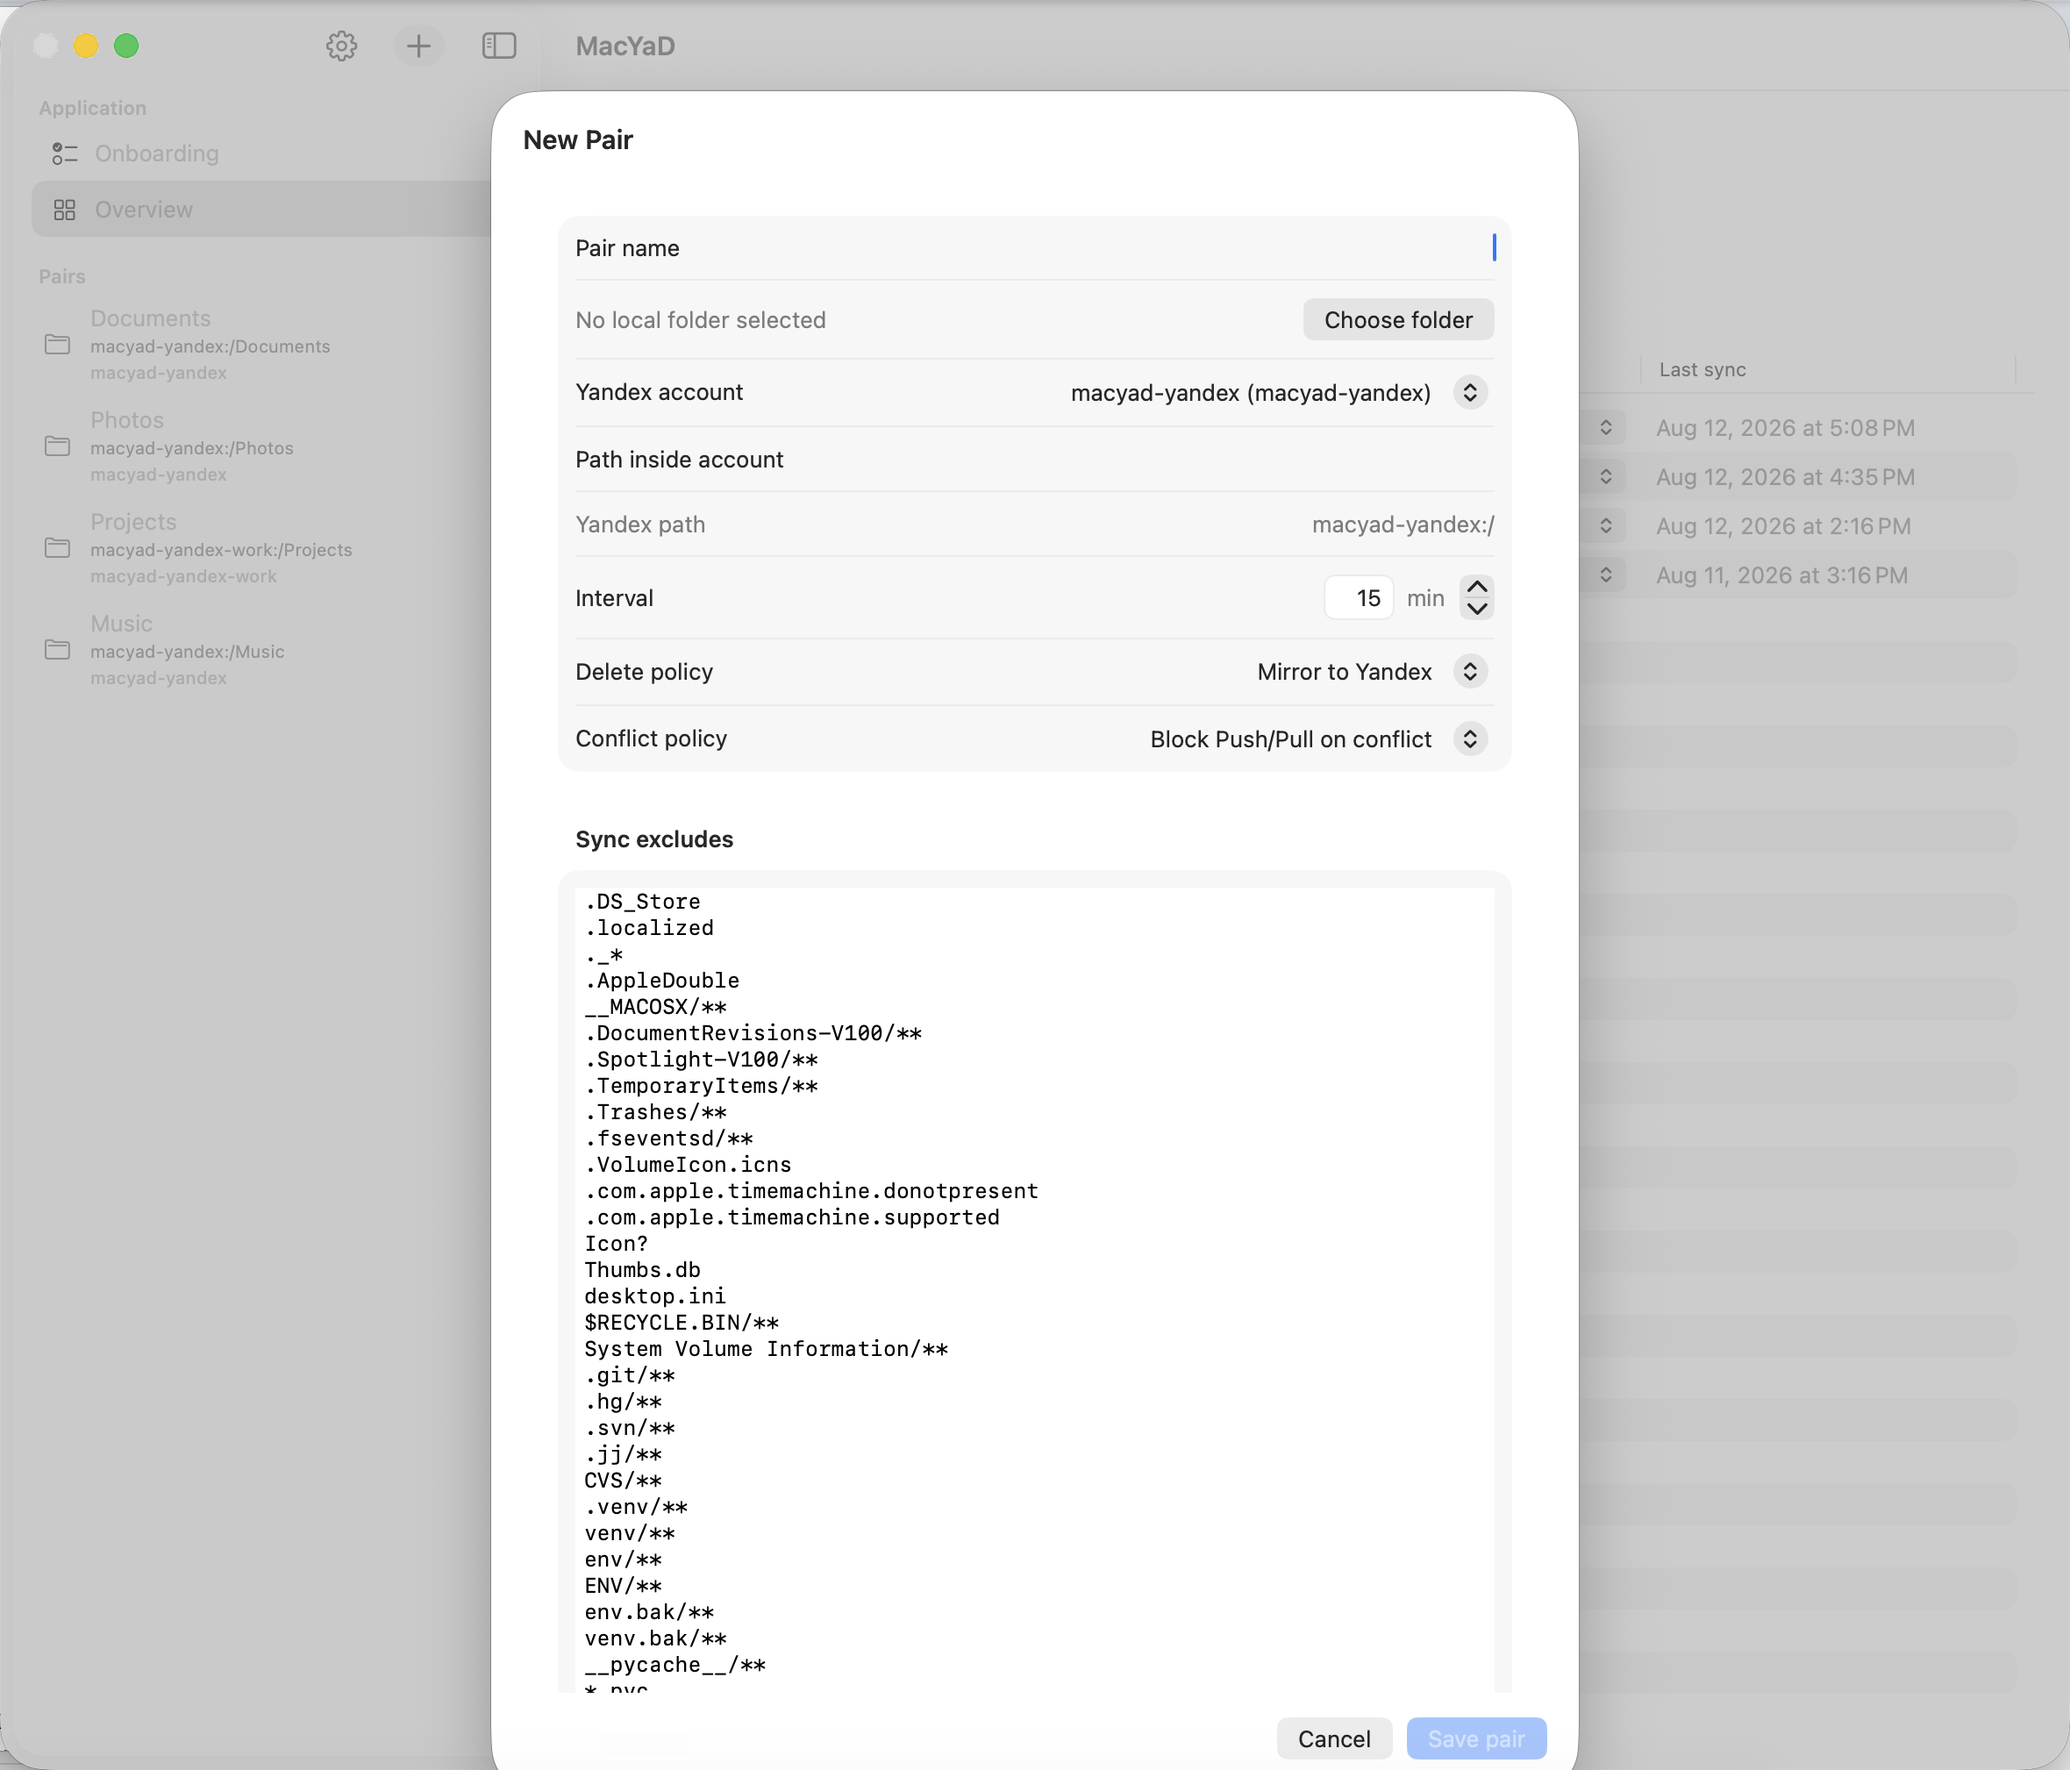
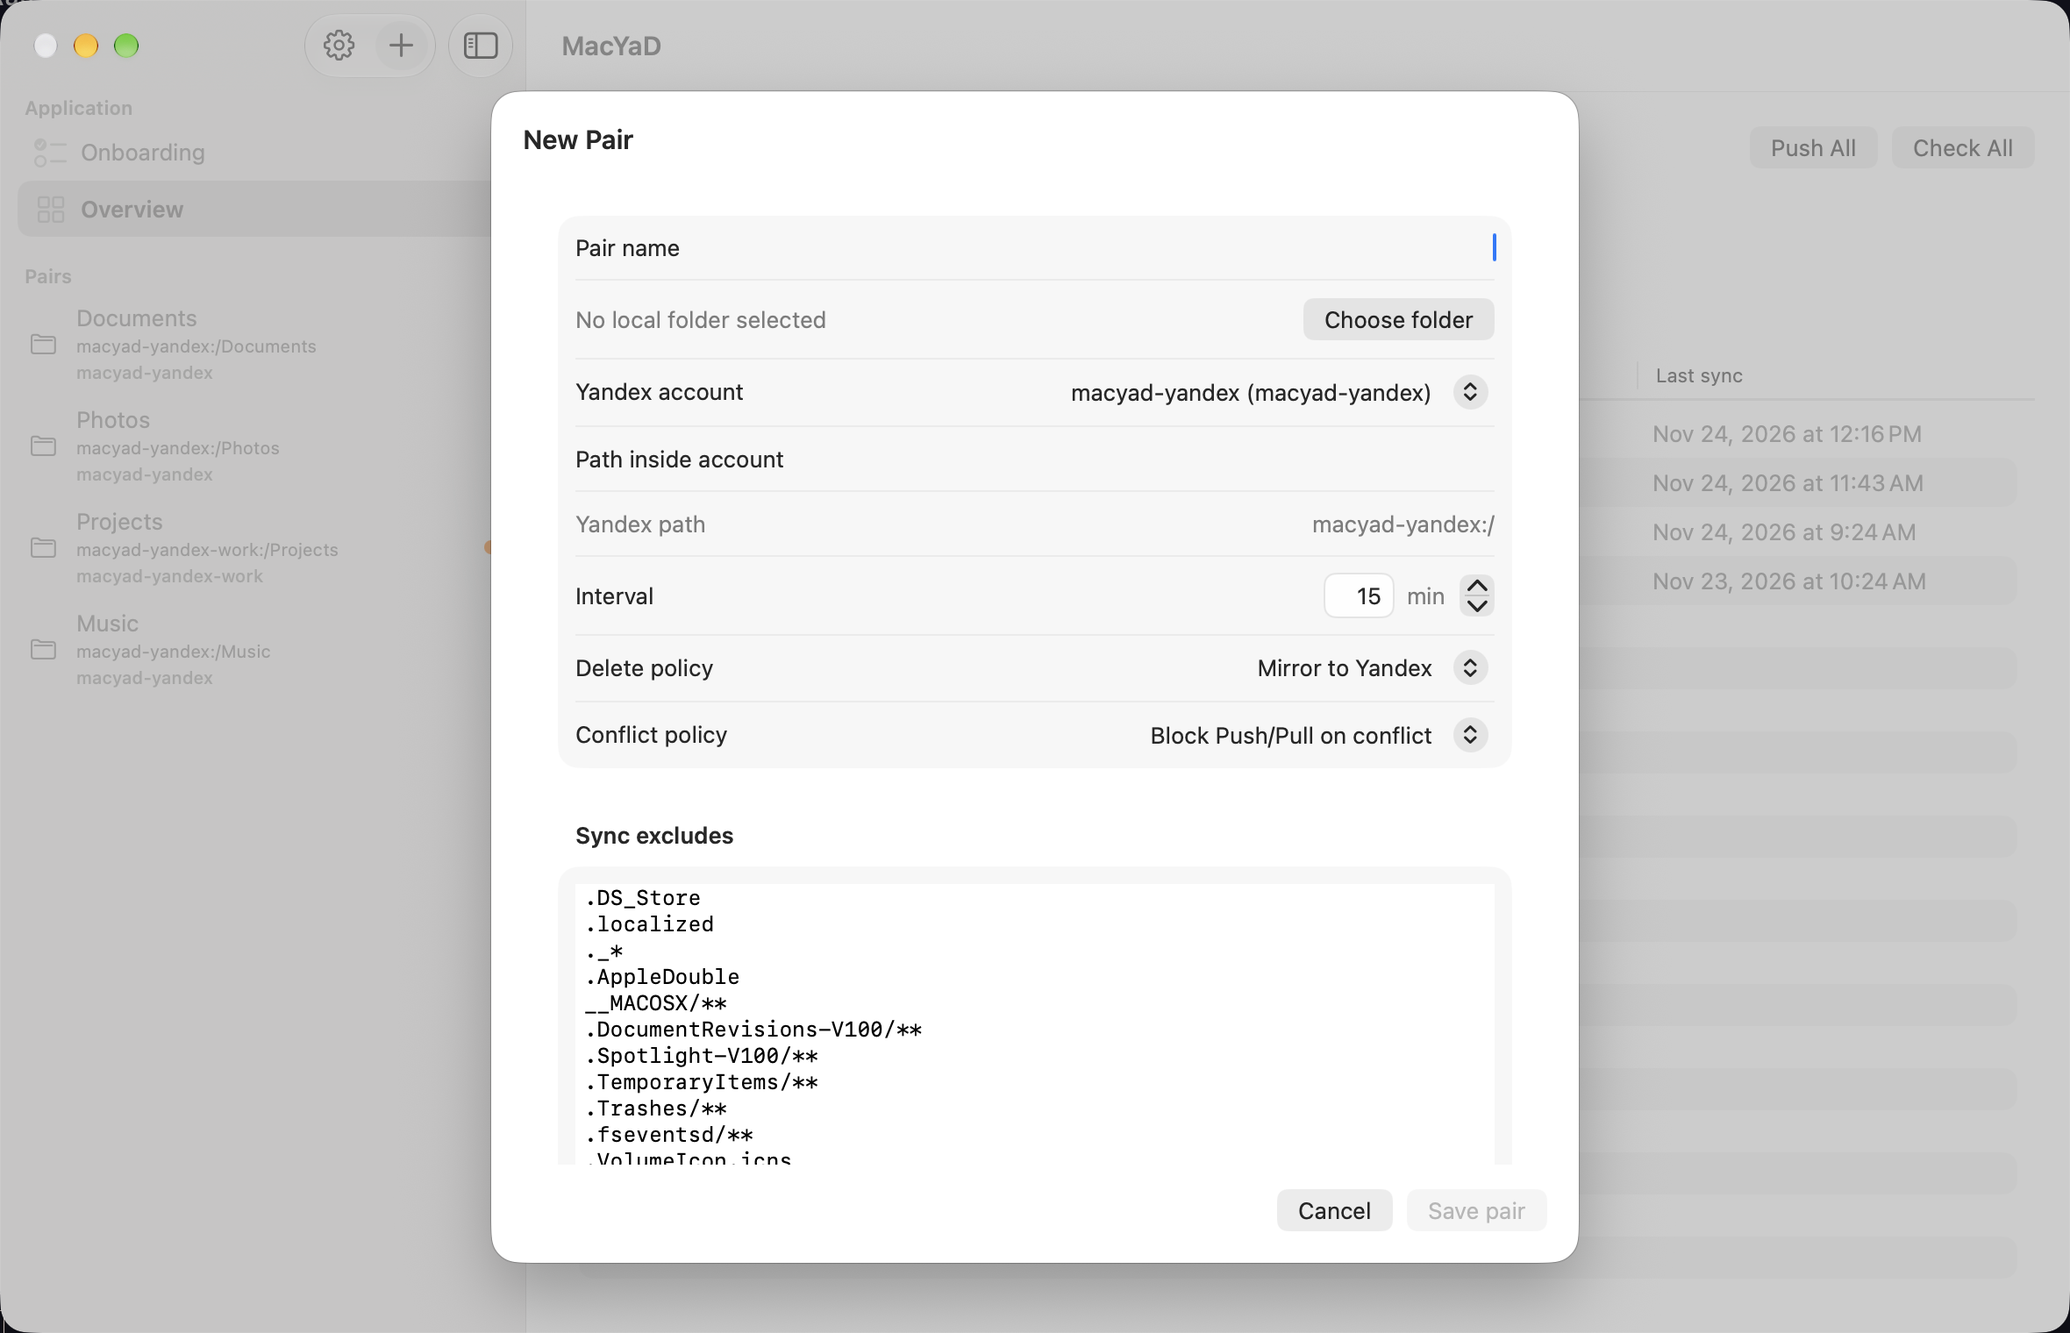
docs: refresh README screenshots and describe the UI fixes
Screenshots retaken with ScreenshotUITests on the seeded configuration:
the Overview now shows Push All / Check All, the pair card the new
"Next sync" rule. Changelog and ViewModels/AGENTS.md describe the per-pair
run indicator and the "Next sync" fix.

Claude-Session: https://claude.ai/code/session_01BfYFpMYGnTAbvLL6529fAy

diff --git a/Macyad/ViewModels/AGENTS.md b/Macyad/ViewModels/AGENTS.md
@@ -14,7 +14,7 @@
 | `SettingsViewModel.swift` | Macyad (app) | Управляет настройками (`AppPreferences`): язык, автозапуск, расписание; управляет аккаунтами Yandex через `AccountService`; через `languageDidChange` уведомляет `AppModel` о смене языка |
 | `CreatePairViewModel.swift` | MacyadCore | Форма создания/редактирования `SyncPair`: хранит черновик полей, вызывает `FolderPicking.pickFolder()`, строит финальный `SyncPair` через `PairService.makePair()` / `updatePair()` |
 | `OnboardingViewModel.swift` | MacyadCore | Обёртка над `OnboardingServicing`: публикует `OnboardingState`, управляет флагом `isRefreshing`, копирует команды в буфер обмена через `PasteboardWriting` |
-| `PairDetailViewModel.swift` | MacyadCore | Лёгкая вьюмодель детальной панели пары: публикует `operationPhase` (`.idle` / `.queued` / `.running`), `latestSeverity`, `lastErrorMessage`; обновляется извне через сеттеры |
+| `PairDetailViewModel.swift` | MacyadCore | Лёгкая вьюмодель детальной панели пары: фаза операции **по каждой паре** (`operationPhase(for:)`, `setOperationPhase(_:for:kind:)` — одна общая фаза показывала чужой запуск и гасла от первого закончившегося), `nextSync(for:preferences:)` по правилу `ScheduledSyncEligibilityPolicy`, `latestSeverity`, `lastErrorMessage`; обновляется извне через сеттеры |
 
 ## For AI Agents
 
@@ -33,7 +33,7 @@
 - Все классы помечены `@MainActor final`; async-операции запускаются через `Task { ... }` внутри синхронных методов.
 - Локализованные строки берутся через `AppCopy(language: language)` или `AppCopy.current` — не используй строковые литералы напрямую.
 - `SettingsViewModel.languageDidChange` — коллбэк, а не Combine-паблишер: `AppModel` регистрирует его при старте в `MacyadApp.configureAppModel()`.
-- `PairDetailViewModel.operationPhase` обновляется снаружи (из `PairSyncCoordinator`/Views) через `setOperationPhase(_:)` и `setOperationInFlight(_:)`.
+- Фаза операции обновляется снаружи (`MainWindowView`) через `setOperationPhase(_:for:kind:)` с id пары.
 
 ## Dependencies
 

diff --git a/CHANGELOG.ru.md b/CHANGELOG.ru.md
@@ -57,6 +57,14 @@ English version: [CHANGELOG.md](CHANGELOG.md)
   запись результата. В нём только идентификаторы пар, подкоманды и номера
   процессов, без имён файлов и путей. Как сохранить его перед перезапуском
   приложения, описано в README, в разделе про неполадки.
+- **Карточка пары показывала чужой запуск как свой.** Индикатор «в очереди» и
+  «выполняется» был один на все пары: Push, поставленный для одной пары, был
+  виден на каждой карточке, а первый закончившийся запуск гасил его, пока
+  другие ещё ждали. Теперь у каждой пары свой индикатор.
+- **«Следующая синхронизация» обещала запуск, которого не будет.** Карточка
+  показывала время, даже если пара на паузе или остановлена ошибкой, которая
+  требует вашего действия. Теперь в этих случаях там написано «На паузе» или
+  «После ручного запуска».
 
 ## 0.1.3 — 2026-11-20
 

diff --git a/CHANGELOG.md b/CHANGELOG.md
@@ -54,6 +54,13 @@ This project follows [Semantic Versioning](https://semver.org/spec/v2.0.0.html).
   exit code), baseline refresh, result recorded. It contains pair IDs,
   subcommands and process IDs only, no file names or paths. Troubleshooting in
   the README shows how to save it before restarting the app.
+- **A pair's card showed another pair's run as its own.** The "queued" and
+  "running" indicator was one value for all pairs, so a Push queued for one
+  pair showed on every card, and the first run to finish cleared it while
+  others were still waiting. Each pair now has its own indicator.
+- **"Next sync" promised a run that would not happen.** The card showed a time
+  even when the pair was paused, or stopped by an error that waits for you.
+  It now says «Paused» or «After a manual run» in those cases.
 
 ## 0.1.3 — 2026-11-20
 
